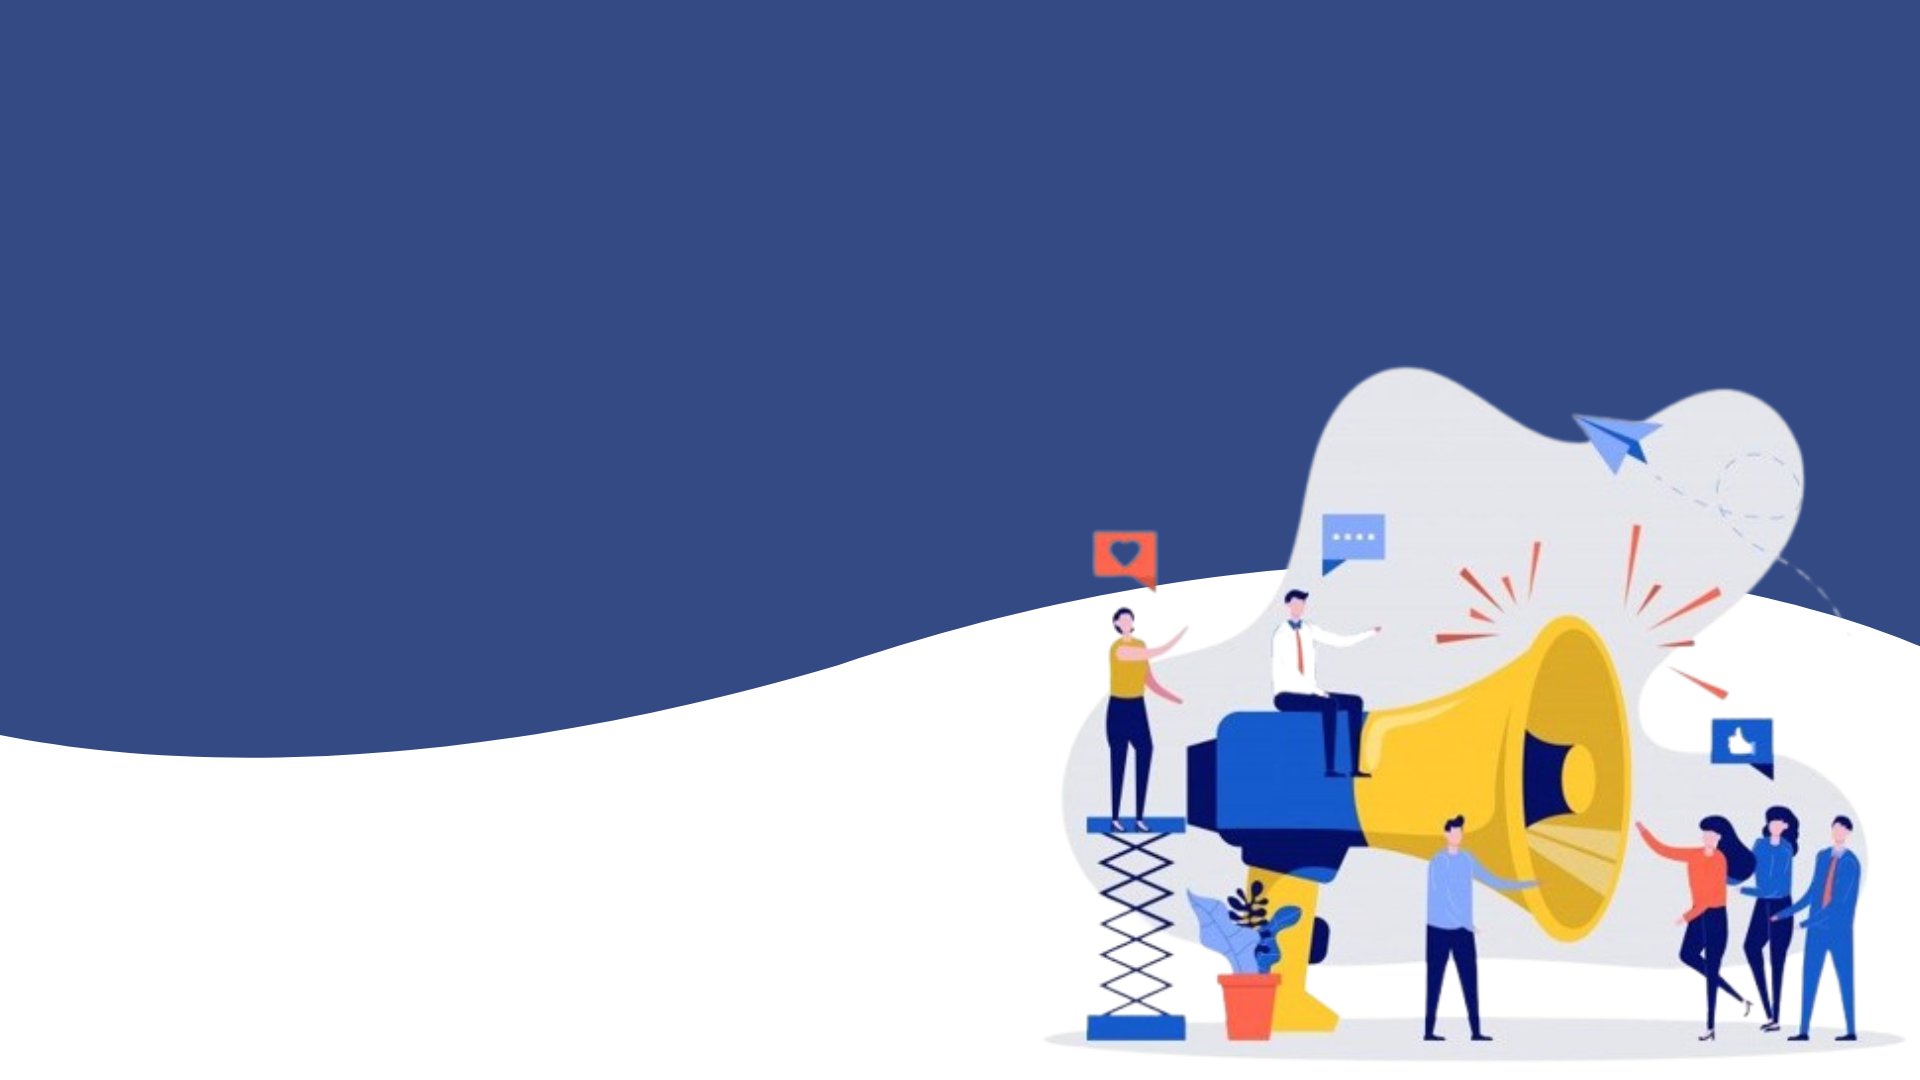
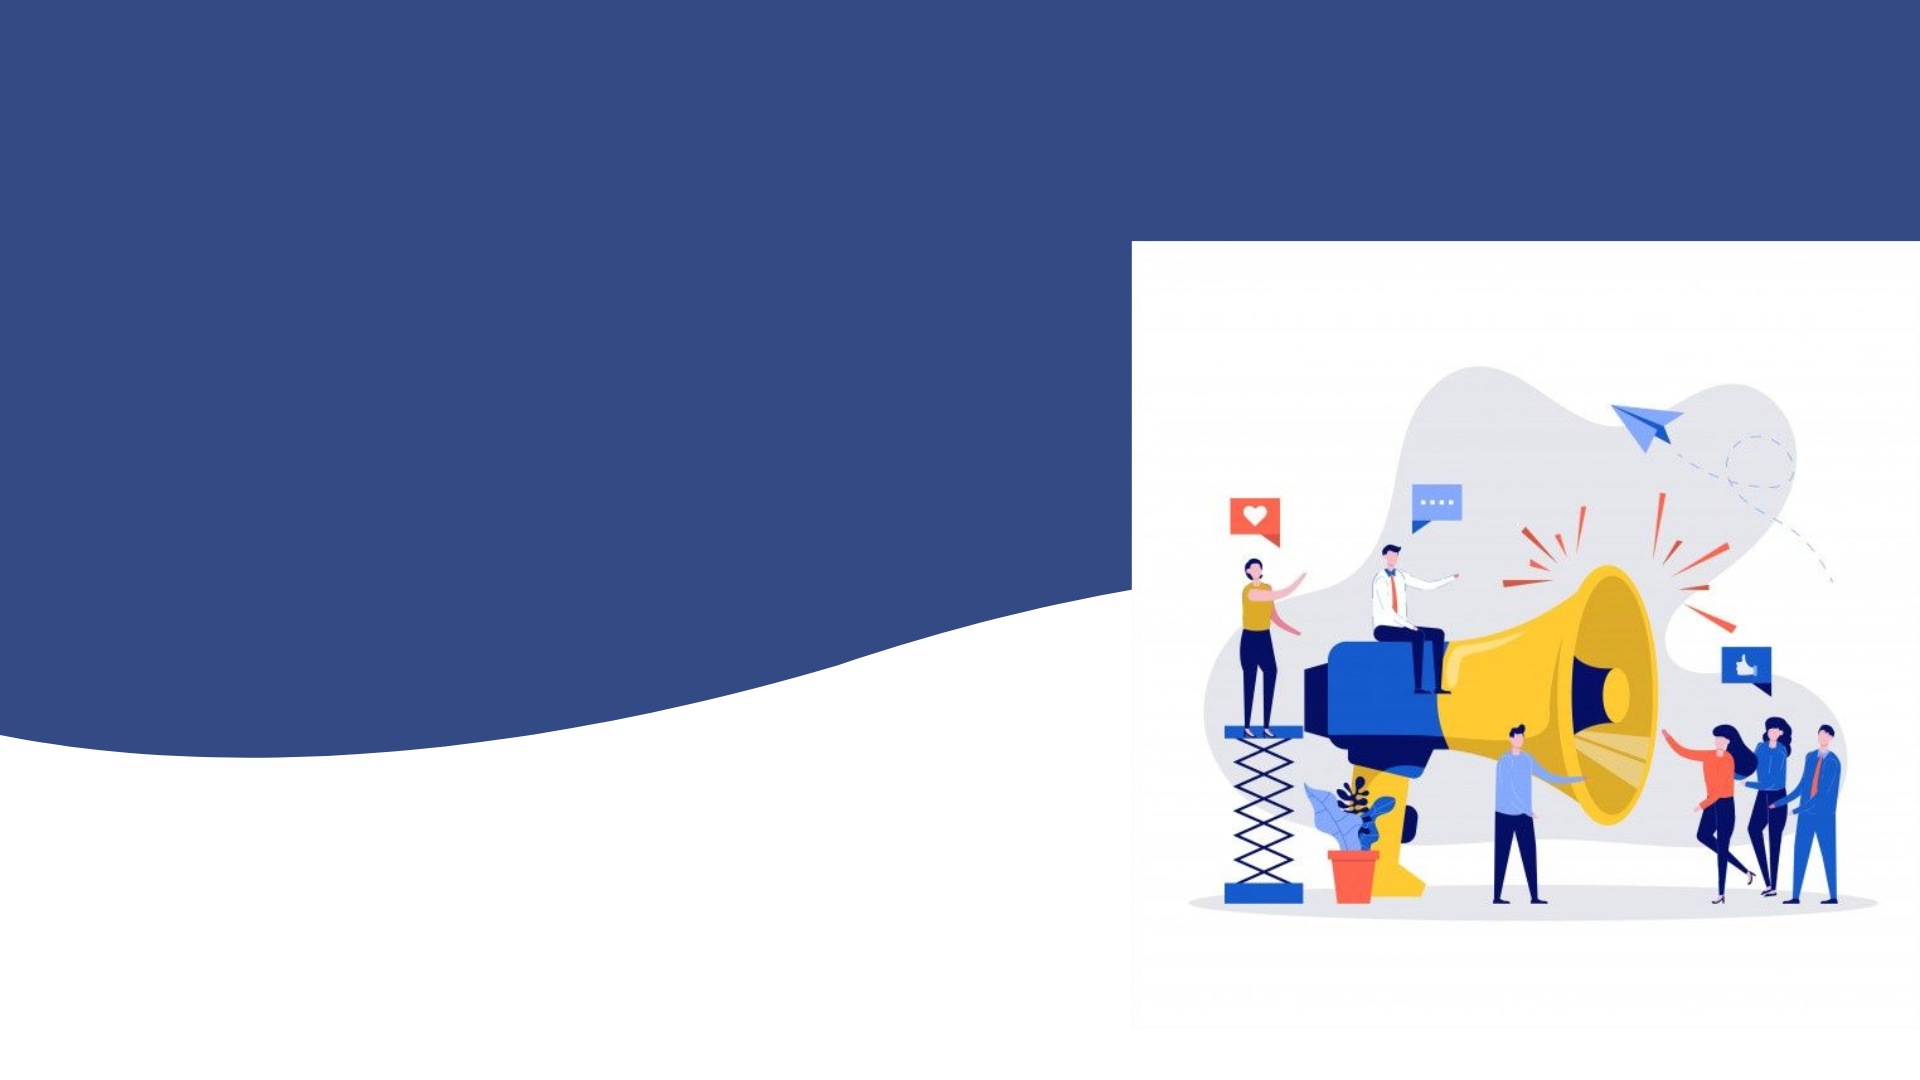
added sytyling

Changed region(s): [[0.5312, 0.2139, 1.0, 1.0]]

diff --git a/style.css b/style.css
@@ -13,7 +13,7 @@ header {
   justify-content: space-around;
   align-items: center;
   padding: 1em;
-  background: rgba(0, 103, 172, 0.774);
+  background: rgba(3, 25, 36, 0.932);
 }
 
 /* Logo */
@@ -66,3 +66,35 @@ header {
   transform: translateY(-2px);
 }
 /* hero section */
+.hero {
+  height: 90vh;
+  background: url(img/hero/hero_img.jpg) no-repeat;
+  background-position: center;
+  background-size: cover;
+  width: 100%;
+  display: flex;
+  justify-content: space-between;
+  align-items: center;
+  padding: 4em;
+}
+.hero-content {
+  color: white;
+  line-height: 50px;
+  text-align: center;
+}
+.hero-content h1 {
+  font-size: 3rem;
+}
+.hero-content button {
+  color: white;
+  background: chocolate;
+  padding: 9px;
+  border-radius: 3em;
+  border-color: transparent;
+  font-size: 1em;
+  font-weight: 600;
+}
+.hero-content button:hover {
+  transform: translateY(-2px);
+  background: #08a5b9;
+}

diff --git a/index.html b/index.html
@@ -47,6 +47,9 @@
             <i class="fa-solid fa-phone"> +25412345678</i>
           </div>
         </div>
+        <div class="hero-image">
+          <img src="img/hero/hero_img4.jpg" alt="" width="400" />
+        </div>
       </section>
       <!-- about -->
       <section class="about" id="about">
